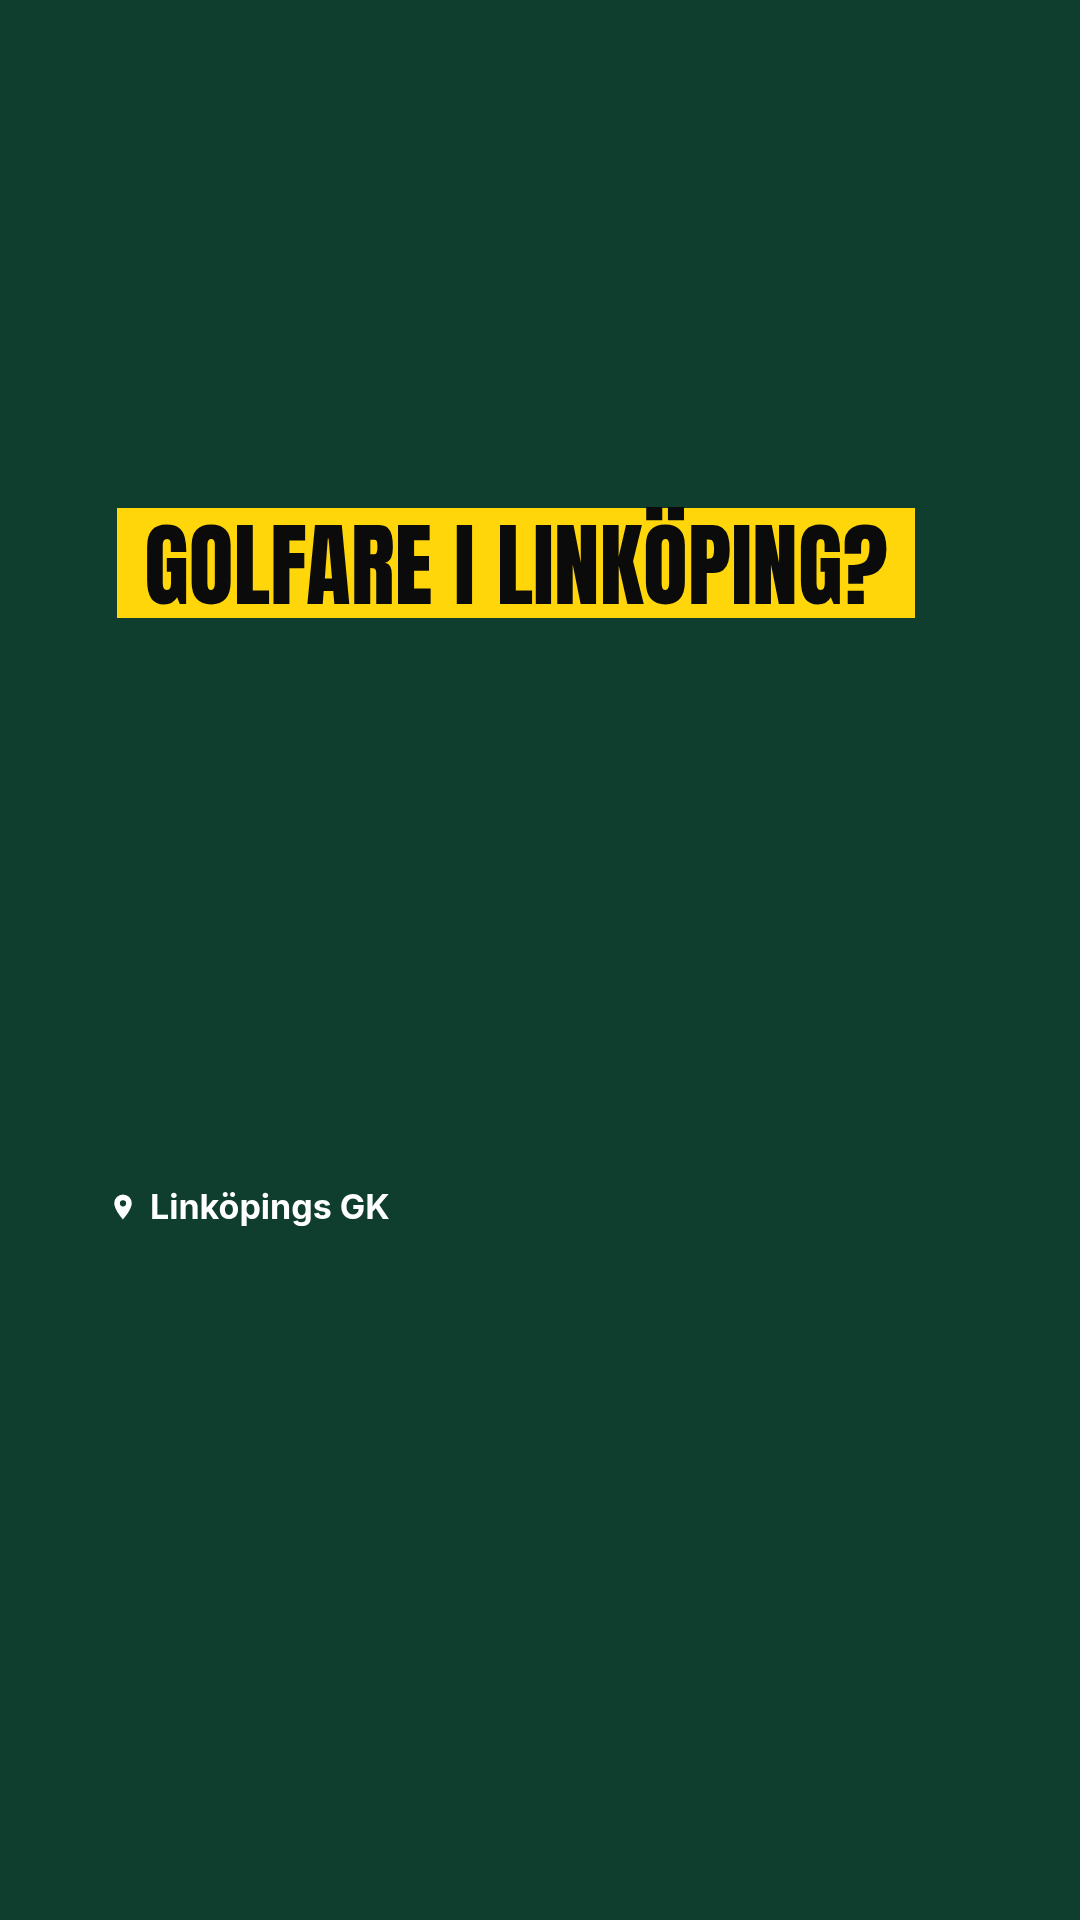
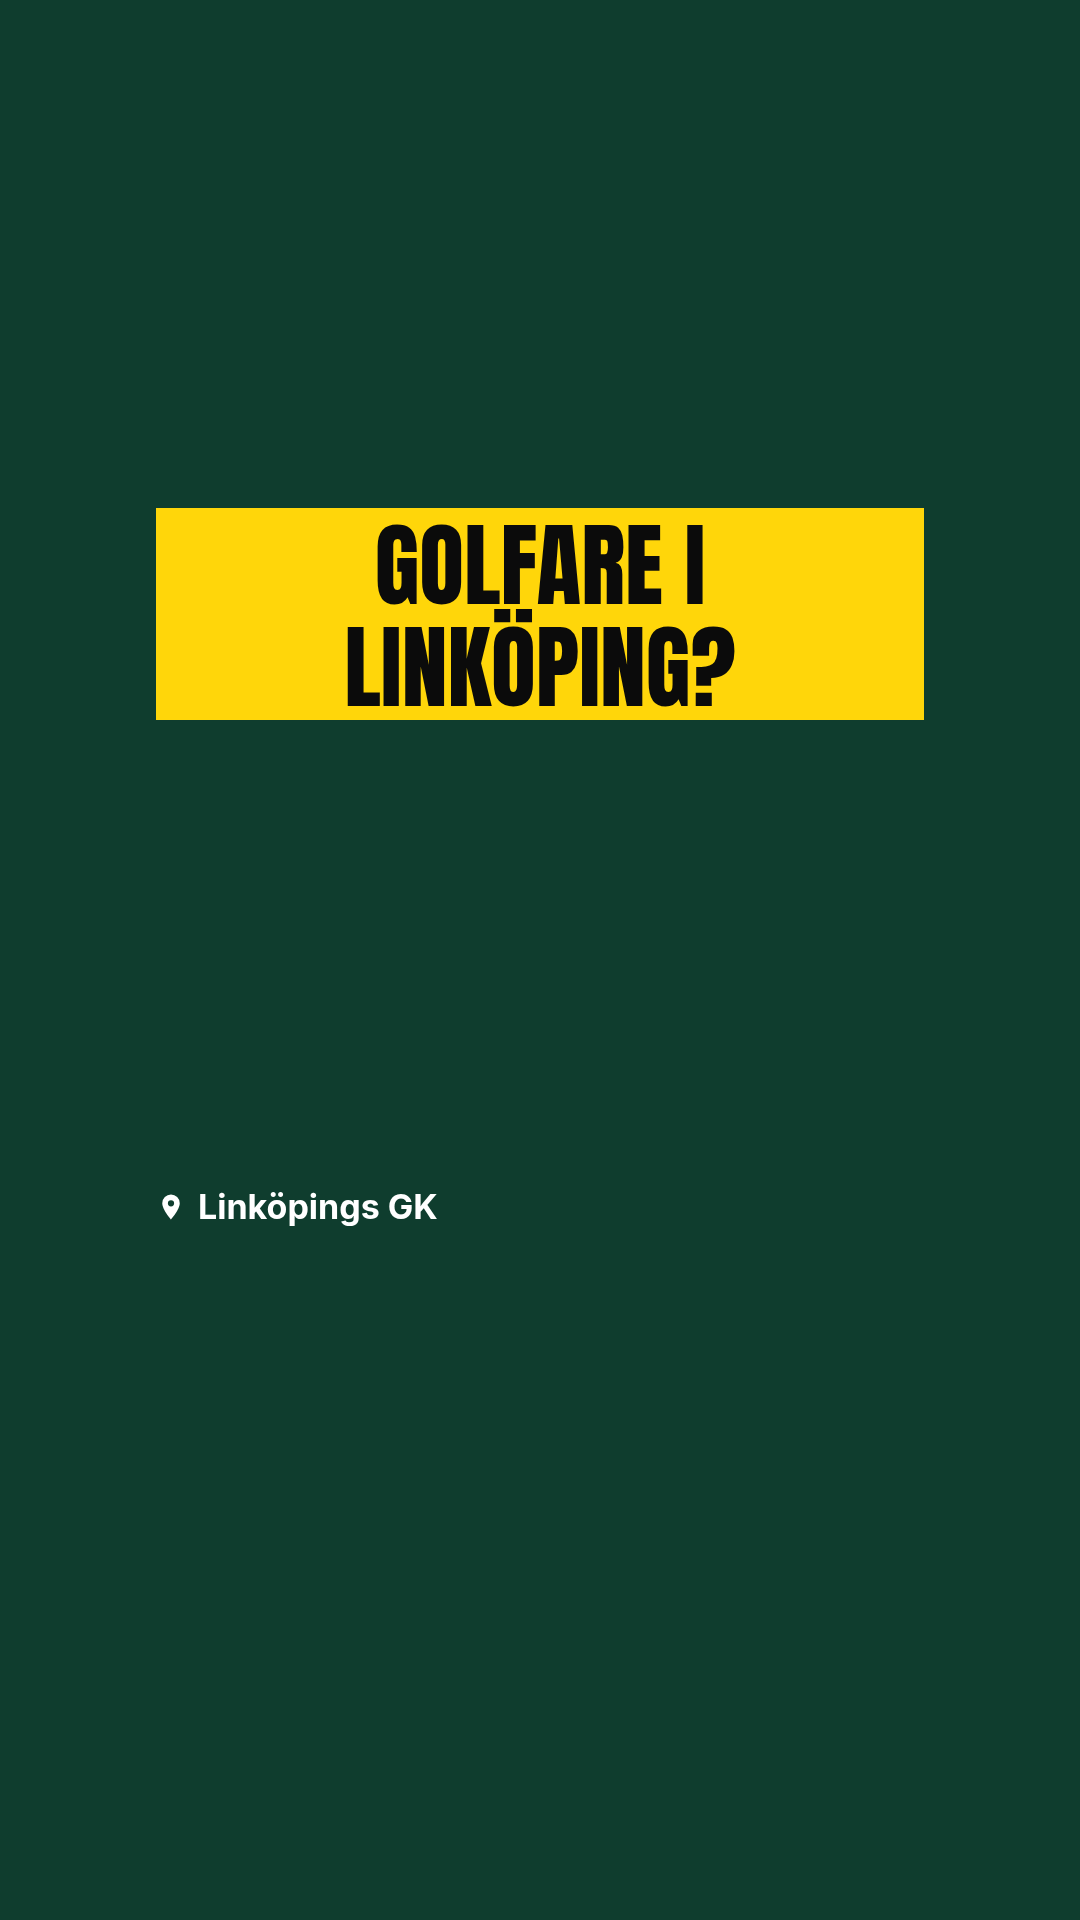
Symmetriska säkra zoner överallt + kontroll som stoppar snett centrerat (#168)
* Symmetric safe zones everywhere, and a check that stops off-centre layouts

Root cause: edit-renderer/src/safezones.js still had the 9:16 side zones at 6 % left (65 px) and 14 % right
(151 px). #161 fixed only the end template's own hand-drawn overlay, so every page that takes its zones from the
shared source (Golfare i stad, the test template, the cloud cut renderer's text boxes) still got a lopsided safe
area, and the video rules told agents to keep content "inom x 65-929". Jonas flagged it three times (2026-10-24,
2026-11-17, 2026-11-19).

- safezones.js: 9:16 left = right = 14 % (151 px); layout margins left = right = 156 px.
- Guard 1, edit-renderer/test/quality.test.js: every format must have equal side zones and margins.
- Guard 2, library/tools/kontrollera_mallar.mjs: new check "mitt". Every centred text line (text-align center or
  centred by a flexbox) must have its middle on the image's middle, ±3 px, trailing letter-spacing excluded.
  Self-test variant "snett" proves it stops a lopsided label.
- The check found the test template's label text left-aligned in its centred box: now text-align: center
  (its 9:16 reference image must be renewed from the CI render).
- Copies of the old numbers fixed: arsskifte and chefen-betalar scene blocks (left 65 -> 151),
  Golfare i stad rendera.mjs QA (centred content from x 151).
- skills/video-regler: zones are 151 px on both sides; never write 65 px or own zone numbers in a template.
[…]

Changed region(s): [[0.0917, 0.25, 0.8556, 0.375], [0.1528, 0.625, 0.3972, 0.6562], [0.0917, 0.625, 0.1222, 0.6562]]

diff --git a/edit-renderer/test/quality.test.js b/edit-renderer/test/quality.test.js
@@ -148,15 +148,22 @@ test('type scale and brand fonts', () => {
 test('platform safe zones: margins cover them and violations are found', () => {
   for (const f of Object.keys(FORMATS)) assert.ok(marginsCoverZones(f), f);
   assert.equal(PLATFORM_ZONES['9:16'].bottom, 0.35);
-  assert.deepEqual(checkSafeZones([{ id: 'ok', x: 120, y: 700, w: 700, h: 300 }], '9:16'), []);
-  const hits = checkSafeZones([{ id: 'low', x: 120, y: 1400, w: 700, h: 200 }, { id: 'right', x: 300, y: 600, w: 700, h: 100 },
-    { id: 'top', x: 200, y: 100, w: 400, h: 100 }], '9:16');
-  assert.deepEqual(hits.map((h) => `${h.id}:${h.zone}`).sort(), ['low:bottom', 'right:right', 'top:top']);
+  // Centred content sits on the image's middle, so the side zones and margins are equal in every format (Jonas 2026-11-19:
+  // asymmetric zones made the overlay and everything centred inside it look crooked, three times).
+  for (const f of Object.keys(FORMATS)) {
+    assert.equal(PLATFORM_ZONES[f].left, PLATFORM_ZONES[f].right, `${f}: zones`);
+    assert.equal(FORMATS[f].safe.left, FORMATS[f].safe.right, `${f}: margins`);
+  }
+  assert.deepEqual(checkSafeZones([{ id: 'ok', x: 190, y: 700, w: 700, h: 300 }], '9:16'), []);
+  const hits = checkSafeZones([{ id: 'low', x: 190, y: 1400, w: 700, h: 200 }, { id: 'right', x: 300, y: 600, w: 700, h: 100 },
+    { id: 'top', x: 200, y: 100, w: 400, h: 100 }, { id: 'left', x: 80, y: 700, w: 400, h: 100 }], '9:16');
+  // x 80 was allowed by the old asymmetric left zone (65 px); the left now mirrors the right (151 px)
+  assert.deepEqual(hits.map((h) => `${h.id}:${h.zone}`).sort(), ['left:left', 'low:bottom', 'right:right', 'top:top']);
   assert.equal(hits.find((h) => h.id === 'low').px, 1600 - Math.round(1920 * 0.65));
 });
 
 test('browser check report → safe-zone, contrast and lint warnings', () => {
-  const report = { format: '9:16', texts: [{ id: 's1', fs: 88, lines: ['a b'], box: { x: 120, y: 1450, w: 600, h: 120 } }], missingFonts: [] };
+  const report = { format: '9:16', texts: [{ id: 's1', fs: 88, lines: ['a b'], box: { x: 190, y: 1450, w: 600, h: 120 } }], missingFonts: [] };
   const check = {
     lint: { findings: [{ severity: 'warning', code: 'composition_file_too_large' }] },
     runtime: { findings: [{ severity: 'warning', code: 'console_warning', message: `[cut-layout] ${JSON.stringify(report)}` }] },

diff --git a/edit-renderer/src/safezones.js b/edit-renderer/src/safezones.js
@@ -5,9 +5,12 @@
 /** Unsafe bands as fractions of the canvas (top/bottom of height, left/right of width). */
 export const PLATFORM_ZONES = {
   // Reels/TikTok/Shorts: status + tabs on top, caption/handle/audio/CTA at the bottom, action rail on the right.
-  // The owner's rule (2026-10-13): keep text, logo and product out of the top ~14 % (270 px), the bottom ~35 %
-  // (670 px) and ~6 % per side; the right keeps 14 % for the like/comment/share rail.
-  '9:16': { top: 0.14, bottom: 0.35, left: 0.06, right: 0.14, platform: 'Reels/TikTok' },
+  // The owner's rule (2026-10-13): keep text, logo and product out of the top ~14 % (270 px) and the bottom ~35 %
+  // (670 px). The right keeps 14 % (151 px) for the like/comment/share rail, and the left MIRRORS it (Jonas 2026-10-24
+  // and 2026-11-19): everything centred sits on the image's middle x 540, so the side zones are always equal.
+  // Never make them asymmetric again (the old left 6 % = 65 px made centred content sit 43 px to the left);
+  // test/quality.test.js and library/tools/kontrollera_mallar.mjs ("mitt") stop it.
+  '9:16': { top: 0.14, bottom: 0.35, left: 0.14, right: 0.14, platform: 'Reels/TikTok' },
   // Instagram feed 4:5 is shown whole, but the profile grid crops it to 3:4 and the like bar hugs the bottom.
   '4:5': { top: 0.05, bottom: 0.07, left: 0.06, right: 0.06, platform: 'Instagram-flödet' },
   '1:1': { top: 0.05, bottom: 0.06, left: 0.05, right: 0.05, platform: 'flödet' },
@@ -16,7 +19,7 @@ export const PLATFORM_ZONES = {
 };
 
 export const FORMATS = {
-  '9:16': { W: 1080, H: 1920, safe: { top: 290, bottom: 690, left: 108, right: 156 } },
+  '9:16': { W: 1080, H: 1920, safe: { top: 290, bottom: 690, left: 156, right: 156 } },
   '4:5': { W: 1080, H: 1350, safe: { top: 110, bottom: 150, left: 90, right: 90 } },
   '1:1': { W: 1080, H: 1080, safe: { top: 80, bottom: 90, left: 80, right: 80 } },
   '16:9': { W: 1920, H: 1080, safe: { top: 100, bottom: 140, left: 140, right: 140 } },

diff --git a/library/templates/golfkuponger-arsskifte/src/scene.html b/library/templates/golfkuponger-arsskifte/src/scene.html
@@ -10,7 +10,7 @@
   #stage { position: relative; width: 1080px; height: 1920px; overflow: hidden; }
   svg { position: absolute; inset: 0; }
   #text { position: absolute; left: 0; right: 0; top: 0; height: 1920px; pointer-events: none; }
-  .block { position: absolute; left: 65px; right: 151px; text-align: center; font-family: Anton; text-transform: uppercase;
+  .block { position: absolute; left: 151px; right: 151px; text-align: center; font-family: Anton; text-transform: uppercase;
            font-size: 112px; line-height: 1.12; letter-spacing: 0.5px; }
   .line { display: block; white-space: nowrap; will-change: transform, opacity; }
   .hl { display: inline-block; position: relative; padding: 0 20px; margin: 0 -4px; }

diff --git a/library/templates/golfkuponger-arsskifte/src/scene2.html b/library/templates/golfkuponger-arsskifte/src/scene2.html
@@ -11,7 +11,7 @@
   #stage { position: relative; width: 1080px; height: 1920px; overflow: hidden; }
   svg { position: absolute; inset: 0; }
   #text { position: absolute; left: 0; right: 0; top: 0; height: 1920px; pointer-events: none; }
-  .block { position: absolute; left: 65px; right: 151px; text-align: center; font-family: Anton; text-transform: uppercase;
+  .block { position: absolute; left: 151px; right: 151px; text-align: center; font-family: Anton; text-transform: uppercase;
            font-size: 112px; line-height: 1.12; letter-spacing: 0.5px; }
   .line { display: block; white-space: nowrap; }
   .hl { display: inline-block; position: relative; padding: 0 20px; margin: 0 -4px; }

diff --git a/library/templates/golfkuponger-arsskifte/src/styleframes.html b/library/templates/golfkuponger-arsskifte/src/styleframes.html
@@ -11,7 +11,7 @@
   #stage { position: relative; width: 1080px; height: 1920px; overflow: hidden; }
   svg { position: absolute; inset: 0; }
   #text { position: absolute; left: 0; right: 0; top: 0; height: 1920px; pointer-events: none; }
-  .block { position: absolute; left: 65px; right: 151px; text-align: center; font-family: Anton; text-transform: uppercase;
+  .block { position: absolute; left: 151px; right: 151px; text-align: center; font-family: Anton; text-transform: uppercase;
            font-size: 112px; line-height: 1.12; letter-spacing: 0.5px; }
   .line { display: block; white-space: nowrap; }
   .hl { display: inline-block; position: relative; padding: 0 20px; margin: 0 -4px; }

diff --git a/library/templates/golfkuponger-chefen-betalar/src/chef-film.html b/library/templates/golfkuponger-chefen-betalar/src/chef-film.html
@@ -11,7 +11,7 @@
   #stage { position: relative; width: 1080px; height: 1920px; overflow: hidden; }
   svg { position: absolute; inset: 0; }
   #text { position: absolute; left: 0; right: 0; top: 0; height: 1920px; pointer-events: none; }
-  .block { position: absolute; left: 65px; right: 151px; text-align: center; font-family: Anton; text-transform: uppercase;
+  .block { position: absolute; left: 151px; right: 151px; text-align: center; font-family: Anton; text-transform: uppercase;
            font-size: 112px; line-height: 1.12; letter-spacing: 0.5px; }
   .line { display: block; white-space: nowrap; }
   .hl { display: inline-block; position: relative; padding: 0 20px; margin: 0 -4px; }

diff --git a/library/templates/golfkuponger-chefen-betalar/src/chef-sf.html b/library/templates/golfkuponger-chefen-betalar/src/chef-sf.html
@@ -11,7 +11,7 @@
   #stage { position: relative; width: 1080px; height: 1920px; overflow: hidden; }
   svg { position: absolute; inset: 0; }
   #text { position: absolute; left: 0; right: 0; top: 0; height: 1920px; pointer-events: none; }
-  .block { position: absolute; left: 65px; right: 151px; text-align: center; font-family: Anton; text-transform: uppercase;
+  .block { position: absolute; left: 151px; right: 151px; text-align: center; font-family: Anton; text-transform: uppercase;
            font-size: 112px; line-height: 1.12; letter-spacing: 0.5px; }
   .line { display: block; white-space: nowrap; }
   .hl { display: inline-block; position: relative; padding: 0 20px; margin: 0 -4px; }

diff --git a/library/templates/_mall/testmall/sida.html b/library/templates/_mall/testmall/sida.html
@@ -10,7 +10,7 @@
   body { background: #0f3d2e; }
   #bakgrund { position: absolute; inset: 0; background-size: cover; background-position: center; }
   #etikett { position: absolute; display: flex; justify-content: center; }
-  #etikett span { padding: .08em .3em .02em; line-height: 1.1; color: #0b0b0b; text-transform: uppercase; }
+  #etikett span { padding: .08em .3em .02em; line-height: 1.1; text-align: center; color: #0b0b0b; text-transform: uppercase; }
   #bana { position: absolute; display: flex; align-items: center; gap: 12px; color: #fff; font: 700 34px 'Inter', sans-serif; }
   #bana svg { width: 30px; height: 30px; flex: none; }
 </style>

diff --git a/skills/video-regler/SKILL.md b/skills/video-regler/SKILL.md
@@ -61,9 +61,11 @@ Först därefter full rendering. Efter leveransen ska bara finjusteringar åters
 - **Etiketter hör ihop med texten:** en etikett (t.ex. plats-ikon + bannamn) ligger centrerad **direkt under**
   huvudtexten med ett litet mellanrum (~40 px) – inte i en annan del av bilden.
 - **Safe zones (Reels, 9:16, 1080×1920):** text, logga, produkt och allt annat viktigt (datum, belopp, etiketter) hålls
-  borta från översta ~14 % (270 px), nedersta ~35 % (670 px), ~6 % (65 px) till vänster och **~14 % (151 px) till höger**
-  – alltså inom x 65–929, y 270–1250. Högerkanten är bred för Facebooks knapprad; vi delar alltid på både Instagram och
-  Facebook (Jonas 2026-10-14). Där ligger profilnamn, bildtext, knappar och CTA. Bara dekor (bakgrund, mark, partiklar) får
+  borta från översta ~14 % (270 px), nedersta ~35 % (670 px) och **~14 % (151 px) på båda sidor** – alltså inom
+  x 151–929, y 270–1250. Högerkanten är bred för Facebooks knapprad; vi delar alltid på både Instagram och Facebook
+  (Jonas 2026-10-14). Vänsterkanten speglar den så att allt centrerat ligger på x 540 (Jonas 2026-10-24, 2026-11-19).
+  Skriv **aldrig** 65 px/x 65 eller egna zonsiffror i en mall: ta zonerna från `edit-renderer/src/safezones.js`
+  (`formatInfo().marginal`/`osakra` i `_mall/sida.mjs`, hjälplinjerna med `visa_zoner`). Där ligger profilnamn, bildtext, knappar och CTA. Bara dekor (bakgrund, mark, partiklar) får
   gå utanför. Kontrollera med hjälplinjer på stillbilderna innan full rendering; i molnklippet kontrolleras det
   automatiskt (`edit-renderer/src/safezones.js`). Håll också texten utanför motivets
   viktiga delar.
